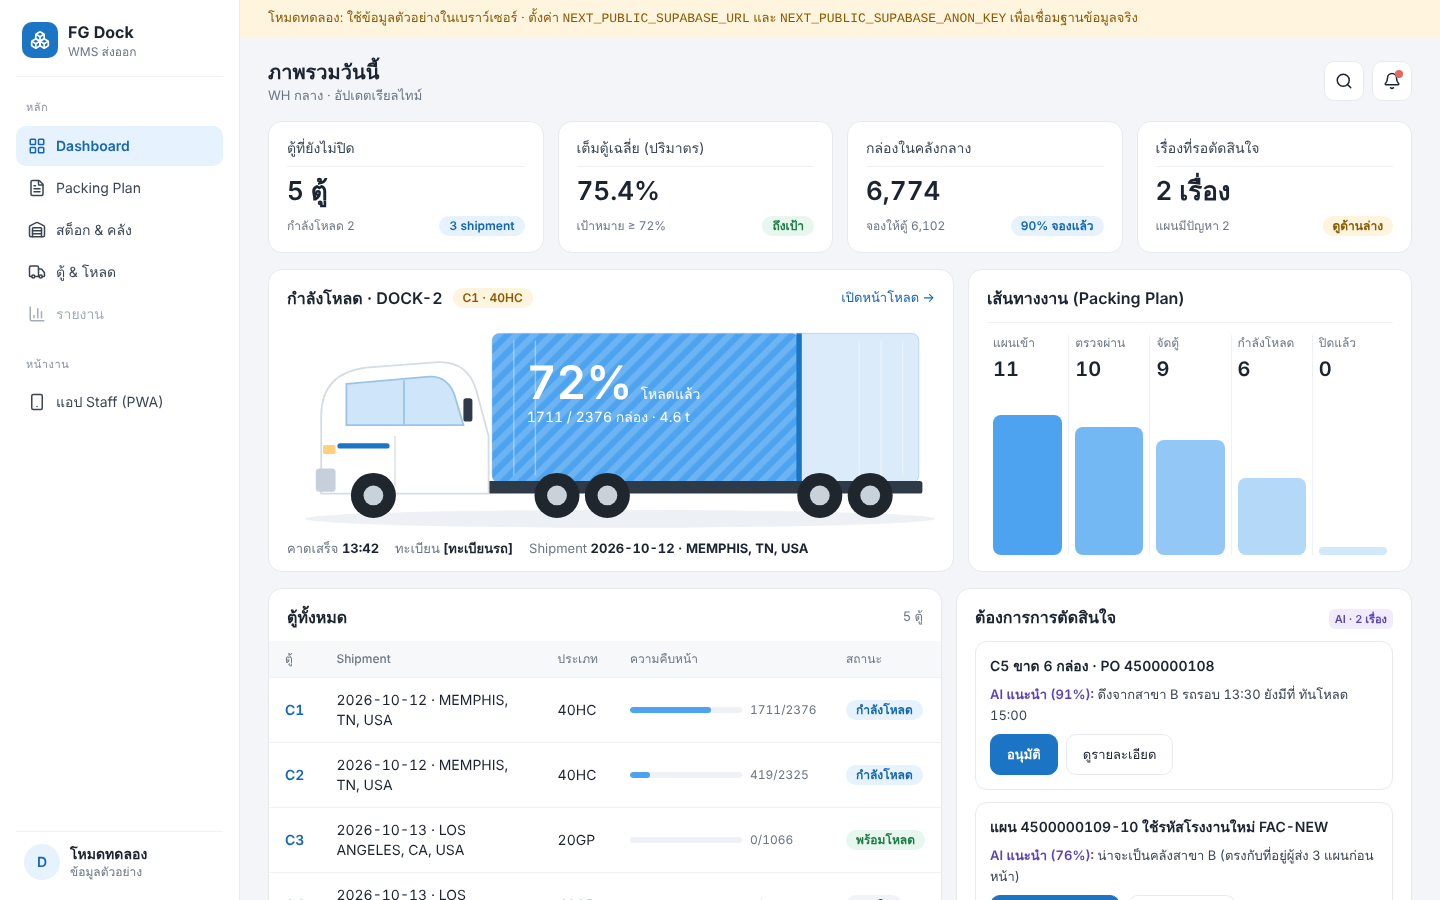
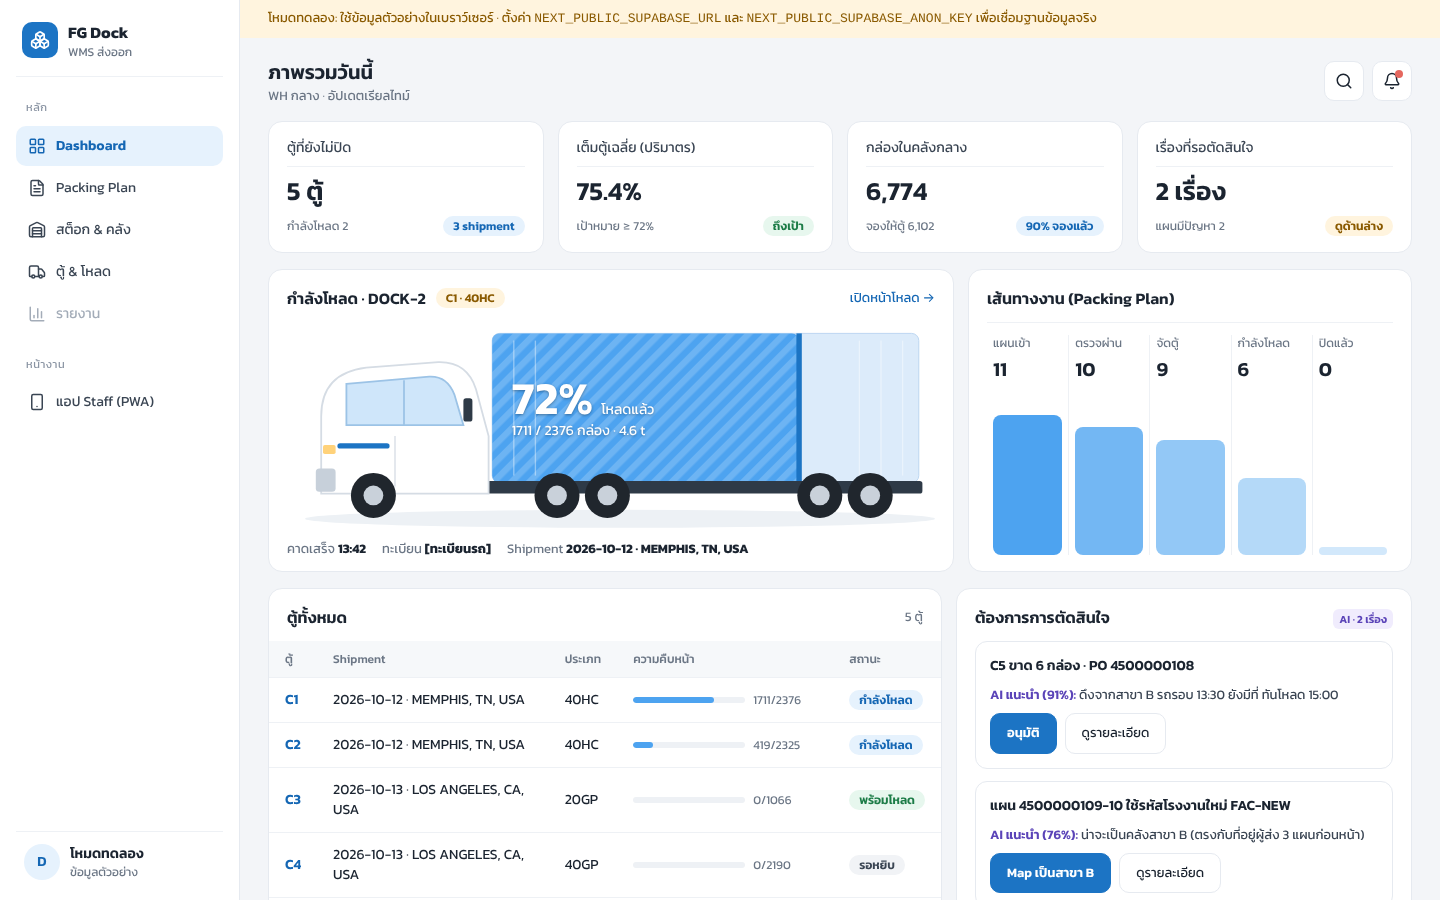
Use Kanit font on web and mobile; truck photo support in TruckFill
- web: self-host Kanit via @fontsource/kanit (300-700), set as --font-sans
- mobile: AppText wrapper maps fontWeight to Kanit families, fonts loaded with expo-font
- TruckFill: optional real photo mode (lib/truckPhoto.ts) with calibrated fill box; vector truck stays as fallback
- % overlay now sits on the container in dashboard and loading page
- regenerate README screenshots

Claude-Session: https://claude.ai/code/session_01M7pgTpG66LTD9SYe4Grtkp

diff --git a/apps/web/src/components/TruckFill.tsx b/apps/web/src/components/TruckFill.tsx
@@ -1,15 +1,64 @@
 import { useId } from 'react';
+import { TRUCK_PHOTO, type TruckPhoto } from '@/lib/truckPhoto';
 
 /**
  * Side view of a tractor + container whose body fills with blue as cartons are loaded.
- * `pct` 0–100. Pure SVG so it works on the dashboard, the loading page and the staff PWA.
+ * `pct` 0–100. Uses the real photo from lib/truckPhoto.ts when one is configured
+ * (except on compact cards), otherwise a vector drawing.
  */
-export function TruckFill({ pct, compact = false, label }: { pct: number; compact?: boolean; label?: string }) {
-  const id = useId().replace(/:/g, '');
+export function TruckFill({ pct, compact = false, label, children }: { pct: number; compact?: boolean; label?: string; children?: React.ReactNode }) {
   const p = Math.max(0, Math.min(100, pct));
-  const fillW = Math.round((474 * p) / 100);
+  const aria = label ?? `รถหัวลากพร้อมตู้ โหลดแล้ว ${Math.round(p)}%`;
+  if (TRUCK_PHOTO && !compact) return <PhotoTruck photo={TRUCK_PHOTO} pct={p} label={aria}>{children}</PhotoTruck>;
   return (
-    <svg viewBox="0 0 720 250" width="100%" role="img" aria-label={label ?? `รถหัวลากพร้อมตู้ โหลดแล้ว ${Math.round(p)}%`}>
+    <div className="relative">
+      <VectorTruck pct={p} compact={compact} label={aria} />
+      {children && <Overlay box={VECTOR_BOX}>{children}</Overlay>}
+    </div>
+  );
+}
+
+/** container body inside the vector drawing (viewBox 720×250), in % */
+const VECTOR_BOX = { left: (228 / 720) * 100, top: (26 / 250) * 100, width: (474 / 720) * 100, height: (166 / 250) * 100 };
+
+/** Text over the container body (e.g. the big loaded %). */
+function Overlay({ box, children }: { box: TruckPhoto['box']; children: React.ReactNode }) {
+  return (
+    <div className="pointer-events-none absolute flex flex-col justify-center px-[3%] text-white" style={{ left: `${box.left}%`, top: `${box.top}%`, width: `${box.width}%`, height: `${box.height}%`, textShadow: '0 1px 3px rgba(0,0,0,.35)' }}>
+      {children}
+    </div>
+  );
+}
+
+function PhotoTruck({ photo, pct, label, children }: { photo: TruckPhoto; pct: number; label: string; children?: React.ReactNode }) {
+  const { box } = photo;
+  return (
+    <figure role="img" aria-label={label} className="relative m-0 overflow-hidden rounded-xl" style={{ aspectRatio: `${photo.width} / ${photo.height}` }}>
+      {/* eslint-disable-next-line @next/next/no-img-element */}
+      <img src={photo.src} alt="" className="absolute inset-0 h-full w-full object-cover" />
+      <div className="absolute overflow-hidden rounded-[6px] ring-2 ring-white/70" style={{ left: `${box.left}%`, top: `${box.top}%`, width: `${box.width}%`, height: `${box.height}%` }}>
+        <div className="absolute inset-0 bg-[#dcebfa]/35" />
+        <div
+          className="absolute inset-y-0 bg-[#1c74c4]/70 transition-[width] duration-700"
+          style={{
+            width: `${pct}%`,
+            [photo.fillFrom]: 0,
+            backgroundImage: 'repeating-linear-gradient(45deg, rgba(255,255,255,.16) 0 7px, transparent 7px 14px)',
+          }}
+        />
+        {pct > 0 && pct < 100 && <div className="absolute inset-y-0 w-1.5 bg-white" style={{ [photo.fillFrom]: `calc(${pct}% - 3px)` }} />}
+      </div>
+      {children && <Overlay box={box}>{children}</Overlay>}
+      <figcaption className="absolute right-2 bottom-1.5 text-[10px] text-white/80 drop-shadow">{photo.credit}</figcaption>
+    </figure>
+  );
+}
+
+function VectorTruck({ pct, compact, label }: { pct: number; compact: boolean; label: string }) {
+  const id = useId().replace(/:/g, '');
+  const fillW = Math.round((474 * pct) / 100);
+  return (
+    <svg viewBox="0 0 720 250" width="100%" role="img" aria-label={label}>
       <defs>
         <pattern id={`stripe-${id}`} width="14" height="14" patternUnits="userSpaceOnUse" patternTransform="rotate(45)">
           <rect width="7" height="14" fill="rgba(255,255,255,.18)" />
@@ -19,7 +68,7 @@ export function TruckFill({ pct, compact = false, label }: { pct: number; compac
       <rect x="228" y="26" width="474" height="166" rx="8" fill="#dcebfa" stroke="#b8d4f0" />
       <rect x="228" y="26" width={fillW} height="166" rx="8" fill="#4da3f0" style={{ transition: 'width .6s ease' }} />
       <rect x="228" y="26" width={fillW} height="166" rx="8" fill={`url(#stripe-${id})`} style={{ transition: 'width .6s ease' }} />
-      {p > 0 && p < 100 && <rect x={228 + fillW - 3} y="26" width="6" height="166" fill="#1c74c4" />}
+      {pct > 0 && pct < 100 && <rect x={228 + fillW - 3} y="26" width="6" height="166" fill="#1c74c4" />}
       {!compact && (
         <g stroke="rgba(255,255,255,.4)" strokeWidth="1.5">
           {[252, 276, 636, 660, 684].map((x) => (

diff --git a/apps/web/src/app/(dash)/page.tsx b/apps/web/src/app/(dash)/page.tsx
@@ -73,18 +73,15 @@ export default function DashboardPage() {
                   เปิดหน้าโหลด →
                 </Link>
               </div>
-              <div className="relative">
-                <TruckFill pct={pct(hero)} />
-                <div className="pointer-events-none absolute top-[22%] left-[37%] flex flex-col gap-0.5 text-white">
-                  <div className="flex items-baseline gap-2">
-                    <b className="text-[clamp(28px,4vw,46px)] leading-none font-semibold">{Math.round(pct(hero))}%</b>
-                    <span className="text-sm">โหลดแล้ว</span>
-                  </div>
-                  <span className="text-sm">
-                    {hero.loadedCartons} / {hero.plannedCartons} กล่อง · {(hero.loadedKg / 1000).toFixed(1)} t
-                  </span>
+              <TruckFill pct={pct(hero)}>
+                <div className="flex items-baseline gap-2">
+                  <b className="text-[clamp(28px,4vw,46px)] leading-none font-semibold">{Math.round(pct(hero))}%</b>
+                  <span className="text-sm">โหลดแล้ว</span>
                 </div>
-              </div>
+                <span className="text-sm">
+                  {hero.loadedCartons} / {hero.plannedCartons} กล่อง · {(hero.loadedKg / 1000).toFixed(1)} t
+                </span>
+              </TruckFill>
               <div className="flex flex-wrap gap-4 pt-1 text-[13px] text-muted">
                 <span>
                   คาดเสร็จ <b className="text-ink">{hero.etaDone ?? '-'}</b>

diff --git a/apps/web/src/app/(dash)/loading/[id]/page.tsx b/apps/web/src/app/(dash)/loading/[id]/page.tsx
@@ -94,18 +94,15 @@ export default function LoadingDetailPage() {
               </div>
             </div>
             {view === 'side' ? (
-              <div className="relative">
-                <TruckFill pct={pct} />
-                <div className="pointer-events-none absolute top-[22%] left-[36%] flex flex-col gap-0.5 text-white">
-                  <div className="flex items-baseline gap-2">
-                    <b className="text-[clamp(28px,4vw,46px)] leading-none font-semibold">{Math.round(pct)}%</b>
-                    <span className="text-sm">โหลดแล้ว</span>
-                  </div>
-                  <span className="text-sm">
-                    {c.loadedCartons} / {c.plannedCartons} กล่อง · {(c.loadedKg / 1000).toFixed(1)} t
-                  </span>
+              <TruckFill pct={pct}>
+                <div className="flex items-baseline gap-2">
+                  <b className="text-[clamp(28px,4vw,46px)] leading-none font-semibold">{Math.round(pct)}%</b>
+                  <span className="text-sm">โหลดแล้ว</span>
                 </div>
-              </div>
+                <span className="text-sm">
+                  {c.loadedCartons} / {c.plannedCartons} กล่อง · {(c.loadedKg / 1000).toFixed(1)} t
+                </span>
+              </TruckFill>
             ) : (
               <div className="h-[420px] overflow-hidden rounded-xl border border-divider">
                 {plan && <Container3D steps={plan.steps} loadedSerials={loaded} nextSerial={next?.serial} type={c.type} />}

diff --git a/apps/mobile/src/components/AppText.tsx b/apps/mobile/src/components/AppText.tsx
@@ -1,0 +1,33 @@
+import { forwardRef } from 'react';
+import { Text as RNText, TextInput as RNTextInput, StyleSheet, type TextInputProps, type TextProps, type TextStyle } from 'react-native';
+
+/**
+ * Text / TextInput that render in Kanit. Custom fonts on Android don't synthesize weights,
+ * so the requested fontWeight is mapped to the matching Kanit file instead.
+ */
+const FAMILY: Record<string, string> = {
+  '100': 'Kanit_300Light',
+  '200': 'Kanit_300Light',
+  '300': 'Kanit_300Light',
+  '400': 'Kanit_400Regular',
+  normal: 'Kanit_400Regular',
+  '500': 'Kanit_500Medium',
+  '600': 'Kanit_600SemiBold',
+  '700': 'Kanit_700Bold',
+  bold: 'Kanit_700Bold',
+  '800': 'Kanit_700Bold',
+  '900': 'Kanit_700Bold',
+};
+
+function kanit(style: TextProps['style']): TextStyle {
+  const flat = (StyleSheet.flatten(style) ?? {}) as TextStyle;
+  return { fontFamily: FAMILY[String(flat.fontWeight ?? '400')] ?? FAMILY['400'], fontWeight: 'normal' };
+}
+
+export const Text = forwardRef<RNText, TextProps>(function Text(props, ref) {
+  return <RNText ref={ref} {...props} style={[props.style, kanit(props.style)]} />;
+});
+
+export const TextInput = forwardRef<RNTextInput, TextInputProps>(function TextInput(props, ref) {
+  return <RNTextInput ref={ref} {...props} style={[props.style, kanit(props.style)]} />;
+});

diff --git a/apps/web/src/app/layout.tsx b/apps/web/src/app/layout.tsx
@@ -1,5 +1,11 @@
 import type { Metadata, Viewport } from 'next';
 import { ApiProvider } from '@/lib/api/provider';
+// Kanit is self-hosted (Thai + Latin) so the staff PWA keeps its font offline
+import '@fontsource/kanit/300.css';
+import '@fontsource/kanit/400.css';
+import '@fontsource/kanit/500.css';
+import '@fontsource/kanit/600.css';
+import '@fontsource/kanit/700.css';
 import './globals.css';
 
 export const metadata: Metadata = {
@@ -19,12 +25,6 @@ export const viewport: Viewport = {
 export default function RootLayout({ children }: LayoutProps<'/'>) {
   return (
     <html lang="th">
-      <head>
-        <link rel="preconnect" href="https://fonts.googleapis.com" />
-        <link rel="preconnect" href="https://fonts.gstatic.com" crossOrigin="" />
-        {/* eslint-disable-next-line @next/next/no-page-custom-font */}
-        <link href="https://fonts.googleapis.com/css2?family=Anuphan:wght@400;500;600;700&display=swap" rel="stylesheet" />
-      </head>
       <body className="min-h-screen bg-ground text-ink antialiased">
         <ApiProvider>{children}</ApiProvider>
       </body>

diff --git a/apps/mobile/src/components/ScannerInput.tsx b/apps/mobile/src/components/ScannerInput.tsx
@@ -1,7 +1,8 @@
 import { CameraView, useCameraPermissions, type BarcodeScanningResult } from 'expo-camera';
 import { useIsFocused } from 'expo-router';
 import { useCallback, useEffect, useRef, useState } from 'react';
-import { Platform, Pressable, StyleSheet, Text, TextInput, View } from 'react-native';
+import { Platform, Pressable, StyleSheet, View, type TextInput as RNTextInput } from 'react-native';
+import { Text, TextInput } from './AppText';
 import { colors, touch } from '../theme';
 
 /**
@@ -23,7 +24,7 @@ export function ScannerInput({
 }) {
   const screenFocused = useIsFocused();
   const active = screenFocused && !paused;
-  const wedgeRef = useRef<TextInput>(null);
+  const wedgeRef = useRef<RNTextInput>(null);
   const [wedgeText, setWedgeText] = useState('');
   const [manual, setManual] = useState('');
   const [manualFocused, setManualFocused] = useState(false);

diff --git a/apps/mobile/app/_layout.tsx b/apps/mobile/app/_layout.tsx
@@ -1,3 +1,4 @@
+import { Kanit_300Light, Kanit_400Regular, Kanit_500Medium, Kanit_600SemiBold, Kanit_700Bold, useFonts } from '@expo-google-fonts/kanit';
 import { Stack } from 'expo-router';
 import { StatusBar } from 'expo-status-bar';
 import { SafeAreaProvider } from 'react-native-safe-area-context';
@@ -5,6 +6,10 @@ import { SessionProvider } from '../src/lib/session';
 import { colors } from '../src/theme';
 
 export default function RootLayout() {
+  // Kanit ships inside the app bundle, so it works offline on the handhelds.
+  const [fontsLoaded, fontError] = useFonts({ Kanit_300Light, Kanit_400Regular, Kanit_500Medium, Kanit_600SemiBold, Kanit_700Bold });
+  if (!fontsLoaded && !fontError) return null;
+
   return (
     <SafeAreaProvider>
       <SessionProvider>

diff --git a/apps/web/src/lib/truckPhoto.ts b/apps/web/src/lib/truckPhoto.ts
@@ -1,0 +1,18 @@
+/**
+ * Real truck photo used by <TruckFill>. Put a side-view photo of a tractor + container in
+ * apps/web/public/images/ and describe where the container body sits in it (percent of the
+ * image width/height). Set to null to use the vector drawing.
+ *
+ * `fillFrom` is the side the cargo starts from: the front wall of the container is next to the cab.
+ */
+export interface TruckPhoto {
+  src: string;
+  width: number;
+  height: number;
+  /** container body inside the photo, in % of the image */
+  box: { left: number; top: number; width: number; height: number };
+  fillFrom: 'left' | 'right';
+  credit: string;
+}
+
+export const TRUCK_PHOTO: TruckPhoto | null = null;

diff --git a/apps/mobile/app/login.tsx b/apps/mobile/app/login.tsx
@@ -1,6 +1,7 @@
 import { Redirect } from 'expo-router';
 import { useState } from 'react';
-import { KeyboardAvoidingView, Platform, ScrollView, StyleSheet, Text, TextInput, View } from 'react-native';
+import { KeyboardAvoidingView, Platform, ScrollView, StyleSheet, View } from 'react-native';
+import { Text, TextInput } from '../src/components/AppText';
 import { SafeAreaView } from 'react-native-safe-area-context';
 import { Button, Card, Loading } from '../src/components/ui';
 import { useSession } from '../src/lib/session';

diff --git a/apps/mobile/app/(app)/load/[id].tsx b/apps/mobile/app/(app)/load/[id].tsx
@@ -1,6 +1,7 @@
 import { Stack, useLocalSearchParams, useRouter } from 'expo-router';
 import { useMemo, useState } from 'react';
-import { ScrollView, StyleSheet, Text, View } from 'react-native';
+import { ScrollView, StyleSheet, View } from 'react-native';
+import { Text } from '../../../src/components/AppText';
 import { ScanBanner } from '../../../src/components/ScanBanner';
 import { ScannerInput } from '../../../src/components/ScannerInput';
 import { SealDialog } from '../../../src/components/SealDialog';

diff --git a/apps/mobile/app/(app)/pick/[id].tsx b/apps/mobile/app/(app)/pick/[id].tsx
@@ -1,6 +1,7 @@
 import { Stack, useLocalSearchParams } from 'expo-router';
 import { useMemo, useState } from 'react';
-import { SectionList, StyleSheet, Text, View } from 'react-native';
+import { SectionList, StyleSheet, View } from 'react-native';
+import { Text } from '../../../src/components/AppText';
 import { ScanBanner } from '../../../src/components/ScanBanner';
 import { ScannerInput } from '../../../src/components/ScannerInput';
 import { Loading, ProgressBar } from '../../../src/components/ui';

diff --git a/apps/mobile/src/components/ui.tsx b/apps/mobile/src/components/ui.tsx
@@ -1,5 +1,6 @@
 import type { ReactNode } from 'react';
-import { ActivityIndicator, Pressable, StyleSheet, Text, View, type StyleProp, type ViewStyle } from 'react-native';
+import { ActivityIndicator, Pressable, StyleSheet, View, type StyleProp, type ViewStyle } from 'react-native';
+import { Text } from './AppText';
 import { colors, radius, toneColors, touch, type Tone } from '../theme';
 
 export function Card({ children, style }: { children: ReactNode; style?: StyleProp<ViewStyle> }) {
